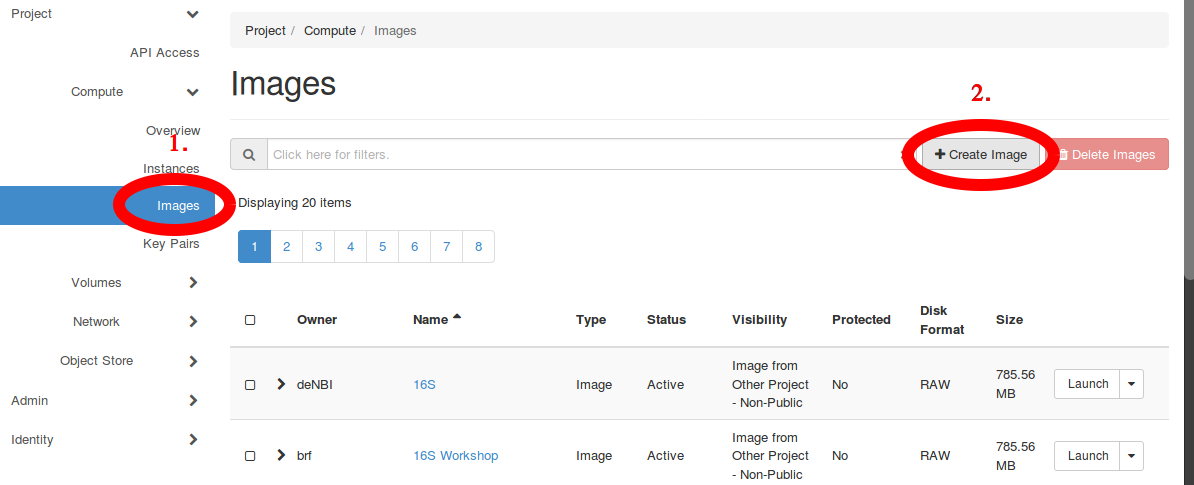
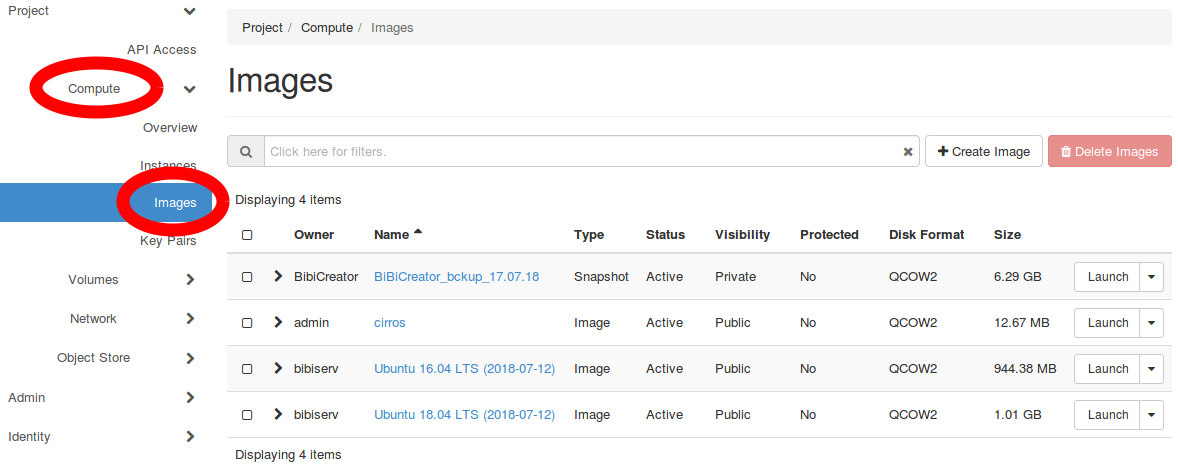
Corrected images site, fixed typos and added new tutorial pictures

diff --git a/wiki/Concept/images.md b/wiki/Concept/images.md
@@ -1,75 +1,93 @@
 # Using and managing images
 
 ## Introduction
-To start a virtual machine in Openstack a virtual machine image (brief: image) is required. Images are files that contain a bootable operating system. Cloud images are available for various operating systems like Ubuntu or CentOS. They are usually separated from the normal installation images. For Ubuntu and CentOS7 the cloud images can be found here: [Ubuntu](https://cloud-images.ubuntu.com/) [CentOS7](https://cloud.centos.org/centos/7/images/?C=M;O=D). Please mind that our Openstack installation provides default images that can be used.
+To start a virtual machine in Openstack, a virtual machine image (brief: image) is required. Images are files that contain a bootable operating system. Cloud images are available for various operating systems like Ubuntu or CentOS. They are usually separated from the normal installation images. 
+A various list of cloud-images can be found here:
+
+* [Ubuntu Cloud Images](https://cloud-images.ubuntu.com/)
+* [CentOS Cloud Images](https://cloud.centos.org/centos/7/images/)
+* [Fedora Cloud Images](https://alt.fedoraproject.org/cloud/)
+* [Windows Cloud Images](https://cloudbase.it/windows-cloud-images/)
+ 
+Please keep in mind, that our Openstack installation provides default and pre-configured images that are ready to use.
 
 ## Adding images to Openstack
 
 To add an image to Openstack open the Openstack dashboard, go to Compute and then Images. In the upper right corner click "Create Image".
 ![Glance image overview](/img/User/images_overview.png)
 
- Fill in the fields in the opened form. For informations to single fields please refer to the following list. All fields not mentioned here are neither required by Openstack nor suggested to be used by normal users by us .
+ Fill in the fields in the opened form. For informations to single fields, please refer to the following list. All fields not mentioned here are neither required by Openstack nor suggested to be used by normal users.
 
-*  Image Name: Name of the image that is displayed in the image list. Please use a self describing name (e.g. Ubuntu_17.04)
+*  **Image Name**: Name of the image that is displayed in the image list. Please use a self describing name (e.g. Ubuntu_17.04).
 
-*  Image Description: [optional] Description of the image. Could contain for example use cases.
+*  **Image Description (optional)**: Description of the image. Could contain, for example, use cases.
 
-*  File: Image file of the image, will be uploaded from the local file system.
+*  **File**: Image file of the image that will be uploaded from the local file system.
 
-*  Format: Format of the uploaded image file. For details on file formats please refer to the Image file format section.
+*  **Format**: Format of the uploaded image file. For details on file formats please refer to the Image file format section.
 
-*  Minimum Disk: Minimal amount of disk space required for the image to run. Will restrict the flavors the image can be run on.
+*  **Minimum Disk**: Minimal amount of disk space required for the image to run. Will restrict the flavors that the image can be run on.
 
-*  Minimum RAM: Same as Minimum Disk, bur for RAM. Also restricts the applicable flavors.
+*  **Minimum RAM**: Same as Minimum Disk, bur for RAM. Also restricts the applicable flavors.
 
-*  Visibility: Whether the image is publicly available or not. Please only use private images, although the default might be different.
+*  **Visibility**: Whether the image is publicly available or not. Please only use private images, although the default might be different. Usually regular users are not able to create public images.
 
-*  Protected: Protects the image from unintended deletion.
+*  **Protected**: Protects the image from unintended deletion.
 
 ![Create Image](/img/User/create_image.png)
 
-The metadata can be left empty. For a more detailed documentation please refer to the official documentation: [Openstack image documentation](https://docs.openstack.org/image-guide/introduction.html).
-To finish image creation please click Create Image.
-The image should no be visible in the Images list.
+The metadata can be left empty. For a more detailed documentation, please refer to the official documentation: [Openstack image documentation](https://docs.openstack.org/image-guide/introduction.html).
+To finish image creation, please click on "Create Image".
+After a while, the image should now be visible in the Images list.
 
 ## Image file format
 
 Image files come in different formats. Openstack supports a wide variety of image file formats.
-The most common formats for images are qcow2 and raw. Please mind that files in iso format usually do not work as they are often used for regular OS installation and not prepared for cloud environments. For further informations please refer to the [Openstack image documentation](https://docs.openstack.org/image-guide/introduction.html).
+The most common formats for images are QCOW2 and RAW. Please beware that files in iso format usually do not work as they are often used for regular OS installation and not prepared for cloud environments. For further informations please refer to the [Openstack image documentation](https://docs.openstack.org/image-guide/introduction.html).
 
 
 ## Image Management
 
-All uploaded Images can be seen under Project -> Compute -> Images. Images can be created and deleted here. In addition it is possible to launch instances with a specific image. It is also to create a volume based on an image.
+All uploaded Images can be seen under Project -> Compute -> Images. Images can be created and deleted here.
+![Images Overview](/img/User/images_overview.png)
+
+In addition, it is also possible to launch instances with a specific image. Optionally you can boot from an existing volume.
 
 ## Images on volumes and ephemeral disks
 
-When creating a virtual machine it can either be created on an ephemeral disk using local storage or on a volume. The size of the ephemeral disk is determined by the used flavor, the size of the volume can be chosen by the user. The decision of whether to use ephemeral storage or a volume for the vm can be made in the Launch Instance dialog in the Source section. If no new volume is created on startup the ephemeral disk is used, otherwise the only the volume is used and there will be no ephemeral disk for this instance. When using a volume disk Openstack currently does not check if the volume has sufficient space for the image but it still checks if the selected flavor has a sufficient amount of ephemeral disk space although the ephemeral disk is not used.
+When creating a virtual machine, the machine can either be created on an ephemeral disk using local storage or a volume. The size of the ephemeral disk is determined by the used flavor and the size of the volume chosen by the user. The decision of whether to use ephemeral storage or a volume for the VM can be made in the "Launch Instance" dialog in the Source section.
+![Images Volume Boot](/img/User/images_volumeboot.png) 
+If no new volume is created on startup, the ephemeral disk will be used. Otherwise, only the volume is used and there will be no ephemeral disk for this instance. When using a volume disk, Openstack currently does not check if the volume has sufficient space for the image but it still checks if the selected flavor has a sufficient amount of ephemeral disk space although the ephemeral disk is not used.
 
 ## Images and Flavors
 
-When creating a VM the user has to select a flavor. This flavor defines the resources a virtual machines has. There are various flavors predefined in Openstack. They vary in the number of available vCPUs, RAM and their disk setup.
+When creating a VM, the user has to select a flavor. This flavor defines the resources a virtual machines has. There are various flavors predefined in Openstack. They vary in the number of available vCPUs, RAM and their disk setup.
 
 
-*  vCPU: Number of CPUs available in the VM
+*  vCPU: Number of CPUs available in the VM.
 
-*  RAM: Amount of RAM available in the VM
+*  RAM: Amount of RAM available in the VM.
 
-*  Total Disk: Amount of disk space available on root disk and ephemeral disk
+*  Total Disk: Amount of disk space available on root disk and ephemeral disk.
 
-*  Root Disk: Root disk space
+*  Root Disk: Root disk space.
 
-*  Ephemeral Disk: Ephemeral disk space
+*  Ephemeral Disk: Ephemeral disk space.
 
-Please note that the root disk can be the volume disk if specified.
-Image can require the flavor they are running on to have a certain amount of RAM and disk space to work. These can be set when uploading or creating an image.
+Please note, that the root disk can be the volume disk if specified.
+Images can require the flavor they are running on to have a certain amount of RAM and disk space to work. These can be set when uploading or creating an image.
+
+The current list of de.NBI flavors is described [here.](./flavors.md)
 
 ## Available Images
 
-There are currently various images publicly available. Most of them are either for testing or serve special purposes. Public images for common uses are the following:
-
-*  Ubuntu 16.04 Xenial 2017/04/19: Generic Ubuntu cloud image
+Most common operating systems are available on all cloud-locations (Ubuntu, CentOS...).
+These images are configured, tested and ready for use.
+If you find an image missing, feel free to upload your own image or contact de.NBI-Support.
 
 ## Snapshots
 
-It is possible to create Snapshots from running instances. These snapshot images are displayed as regular images in the image overview and can be used like regular images.
+It is possible to create Snapshots from running instances.
+Snapshots save the current status of a VM and can be used as a backup mechanism. 
+These snapshot images are displayed as regular images in the image overview and can be used like regular images.
+
